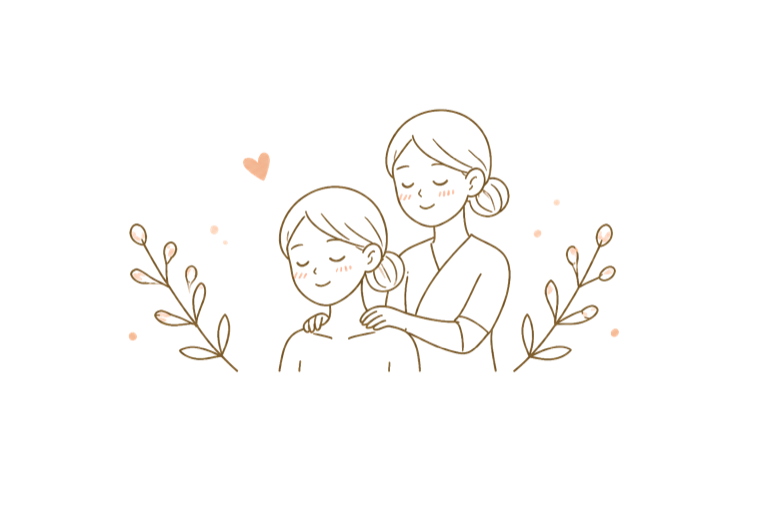
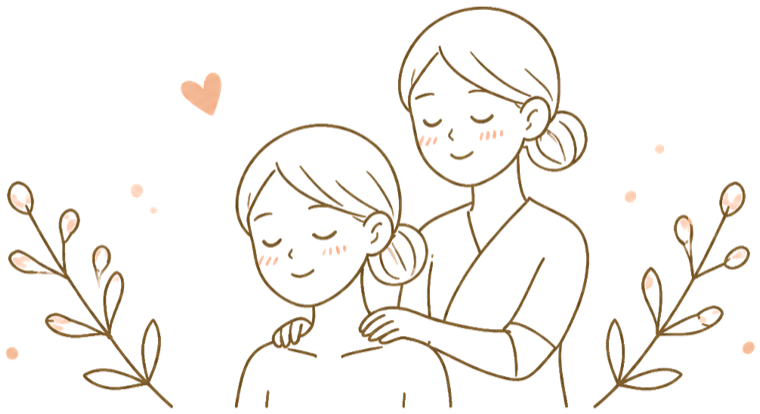
redeploy 2026-08-26 21:24

diff --git a/assets/css/style.css b/assets/css/style.css
@@ -153,7 +153,7 @@ a:hover { color: #5C3D16; }
 .story .headline { font-family: var(--serif); font-size: clamp(21px, 3vw, 30px); line-height: 1.65; font-weight: 500; white-space: pre-line; margin: 0; }
 .story .divider { width: 1px; height: 44px; background: var(--amber); }
 .story .body { max-width: 620px; font-weight: 300; font-size: clamp(14px, 1.5vw, 17px); line-height: 2.05; color: var(--body); white-space: pre-line; }
-.story-illust { width: min(380px, 72vw); margin: 44px auto 0; display: block; }
+.story-illust { width: min(380px, 72vw); margin: 4px auto 0; display: block; }
 
 /* ============ cards ============ */
 .sig-grid { display: grid; grid-template-columns: 1fr; gap: 20px; }

diff --git a/programs.html b/programs.html
@@ -13,7 +13,7 @@
 <link rel="icon" href="assets/img/logo.png">
 <link rel="preconnect" href="https://fonts.googleapis.com">
 <link rel="stylesheet" href="https://fonts.googleapis.com/css2?family=Noto+Serif+KR:wght@400;500;600&family=Noto+Sans+KR:wght@300;400;500&family=Cormorant+Garamond:wght@500;600&display=swap">
-<link rel="stylesheet" href="assets/css/style.css?v=c6fb23c6">
+<link rel="stylesheet" href="assets/css/style.css?v=91caa5f4">
 </head>
 <body data-page="programs">
 <header class="site-header solid">

diff --git a/index.html b/index.html
@@ -13,7 +13,7 @@
 <link rel="icon" href="assets/img/logo.png">
 <link rel="preconnect" href="https://fonts.googleapis.com">
 <link rel="stylesheet" href="https://fonts.googleapis.com/css2?family=Noto+Serif+KR:wght@400;500;600&family=Noto+Sans+KR:wght@300;400;500&family=Cormorant+Garamond:wght@500;600&display=swap">
-<link rel="stylesheet" href="assets/css/style.css?v=c6fb23c6">
+<link rel="stylesheet" href="assets/css/style.css?v=91caa5f4">
 </head>
 <body data-page="home">
 <header class="site-header overlay">

diff --git a/about.html b/about.html
@@ -13,7 +13,7 @@
 <link rel="icon" href="assets/img/logo.png">
 <link rel="preconnect" href="https://fonts.googleapis.com">
 <link rel="stylesheet" href="https://fonts.googleapis.com/css2?family=Noto+Serif+KR:wght@400;500;600&family=Noto+Sans+KR:wght@300;400;500&family=Cormorant+Garamond:wght@500;600&display=swap">
-<link rel="stylesheet" href="assets/css/style.css?v=c6fb23c6">
+<link rel="stylesheet" href="assets/css/style.css?v=91caa5f4">
 </head>
 <body data-page="about">
 <header class="site-header solid">

diff --git a/visit.html b/visit.html
@@ -13,7 +13,7 @@
 <link rel="icon" href="assets/img/logo.png">
 <link rel="preconnect" href="https://fonts.googleapis.com">
 <link rel="stylesheet" href="https://fonts.googleapis.com/css2?family=Noto+Serif+KR:wght@400;500;600&family=Noto+Sans+KR:wght@300;400;500&family=Cormorant+Garamond:wght@500;600&display=swap">
-<link rel="stylesheet" href="assets/css/style.css?v=c6fb23c6">
+<link rel="stylesheet" href="assets/css/style.css?v=91caa5f4">
 </head>
 <body data-page="visit">
 <header class="site-header solid">
